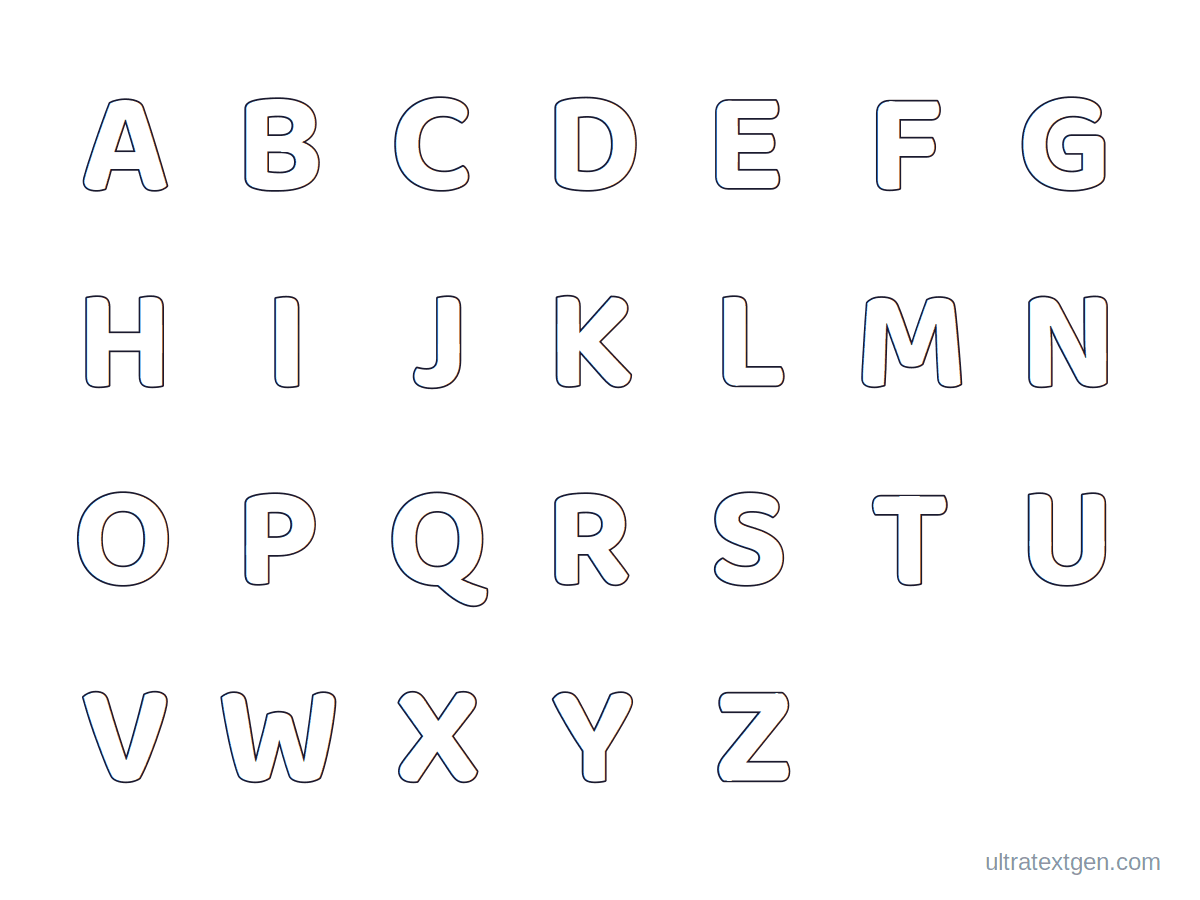
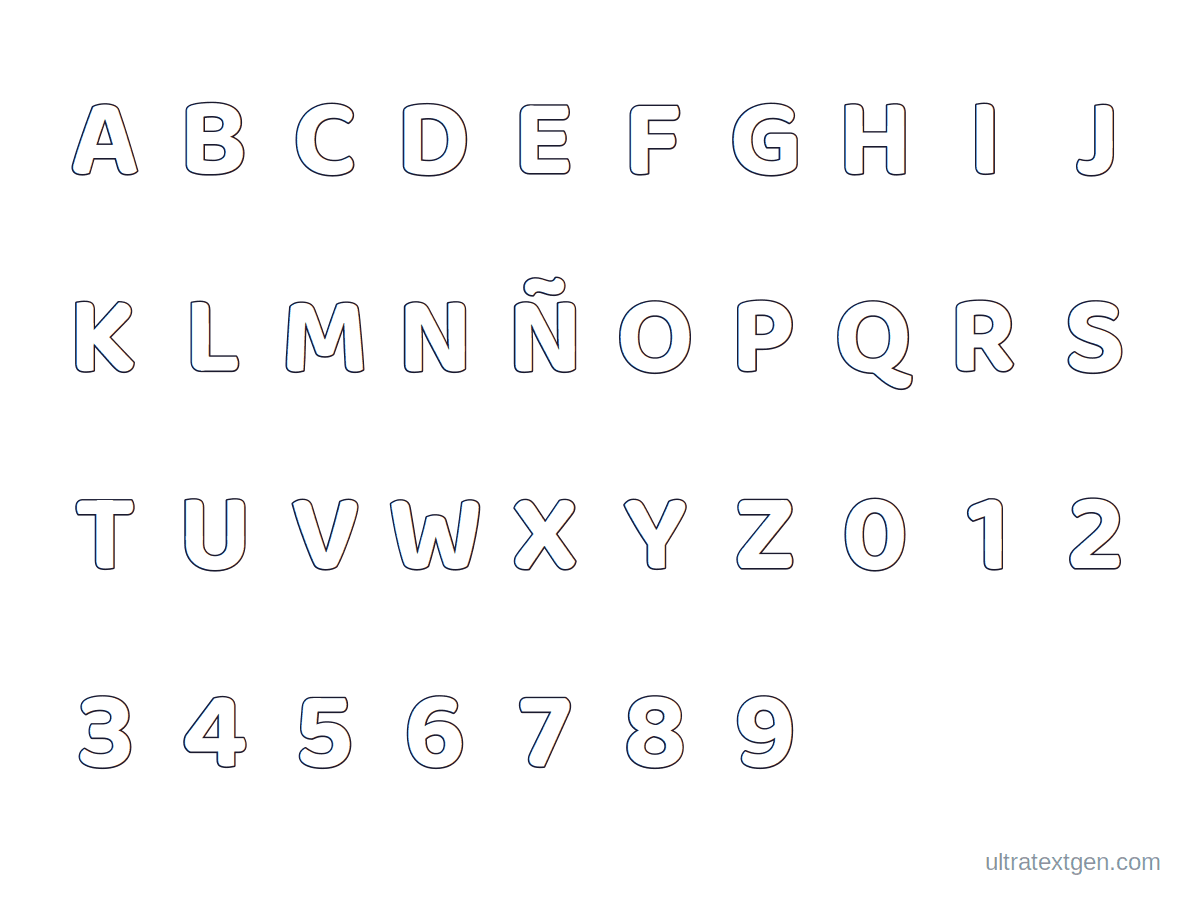
fix(printables): Spanish coloring alphabet offers its 37 spokes, N-tilde included
Same defect as the English hub, one degree worse. es/imprimibles/abecedario-para-colorear
ships 37 spokes (26 letras, letra-enye, numero-0..9) and links every one of them
from its own list, while its title, h1, list heading and figure alt already said
"A-Z y 0-9". Its picker offered 26 tiles: the N-tilde and all ten numbers were
advertised with no way to open them.

It needs BOTH keys, because the engine gates them separately: `chars` carries the
27-letter Spanish alphabet so the letter row includes the N-tilde, and `charset:
"alnum"` adds the digit row, which is built from a fixed DIGITS constant rather
than from `chars`. Either alone leaves a third of the page unreachable.

Nothing was invented: the `chars` array is copied verbatim from
es/imprimibles/abecedario-espanol, which already ships that exact 27-letter
sequence with the N-tilde between N and O. Copy vocabulary was attested against
this locale's own pages before use (numero 128, caracter 152, conjunto completo
6). The FAQ answer saying "los 26 contornos" was corrected in both halves at
once, visible and JSON-LD, since check:faq-schema compares them.

37 is prime, so a clean rectangle is impossible and the old column rule made that
visibly worse: `7 if n <= 28 else 9` puts ONE glyph alone on a fifth row, a worse
version of the ragged gap this grid was just fixed for. grid_cols() keeps the
historical rule as the default and only departs from it when the last row would
[…]

diff --git a/es/imprimibles/abecedario-para-colorear/index.html b/es/imprimibles/abecedario-para-colorear/index.html
@@ -111,7 +111,7 @@ window.__h82AlnkH6D91__("WyJwdWItODI0MjMyNDE2NDQxMzk0NSIsW251bGwsbnVsbCxudWxsLCJ
       "name": "¿Cómo imprimo todo el alfabeto ABC de una vez?",
       "acceptedAnswer": {
         "@type": "Answer",
-        "text": "Desplázate hasta la sección Alfabeto para imprimir y pulsa Imprimir el alfabeto para enviar los 26 contornos de letras a tu impresora en una sola hoja — práctico para un juego de clase o una actividad de día lluvioso."
+        "text": "Desplázate hasta la sección Alfabeto para imprimir y pulsa Imprimir el alfabeto para enviar los 37 contornos de letras y números a tu impresora en una sola hoja — práctico para un juego de clase o una actividad de día lluvioso."
       }
     },
     {
@@ -395,11 +395,11 @@ window.__h82AlnkH6D91__("WyJwdWItODI0MjMyNDE2NDQxMzk0NSIsW251bGwsbnVsbCxudWxsLCJ
 
     <!-- Picker + selected-letter detail -->
     <section class="bubble-az" aria-labelledby="ptPickHeading">
-      <h2 class="bubble-az-heading" id="ptPickHeading">Elige una letra para colorear</h2>
-      <p class="bubble-az-intro">Toca cualquier letra A–Z para ver su gran contorno para colorear, imprimirlo o descargar un PNG.</p>
-      <div class="bubble-strip" id="pt-strip" role="tablist" aria-label="Elegir una letra para colorear"></div>
+      <h2 class="bubble-az-heading" id="ptPickHeading">Elige una letra o un número para colorear</h2>
+      <p class="bubble-az-intro">Toca cualquier letra A–Z, la Ñ o cualquier número 0–9 para ver su gran contorno para colorear, imprimirlo o descargar un PNG.</p>
+      <div class="bubble-strip" id="pt-strip" role="tablist" aria-label="Elegir una letra o un número para colorear"></div>
       <div class="bubble-letter-panel" id="pt-panel" aria-live="polite"></div>
-      <p class="bubble-az-intro">¿Quieres el alfabeto completo? Imprime los 26 contornos para colorear de una vez — en una sola hoja, o como libro con una página por letra.</p>
+      <p class="bubble-az-intro">¿Quieres el conjunto completo? Imprime los 37 contornos para colorear de una vez — las 27 letras y los 10 números — en una sola hoja, o como libro con una página por carácter.</p>
       <div class="pt-size-field">
         <div id="pt-size-control"></div>
       </div>
@@ -628,7 +628,7 @@ window.__h82AlnkH6D91__("WyJwdWItODI0MjMyNDE2NDQxMzk0NSIsW251bGwsbnVsbCxudWxsLCJ
           <svg xmlns="http://www.w3.org/2000/svg" fill="none" viewBox="0 0 24 24" stroke="currentColor"><path stroke-linecap="round" stroke-linejoin="round" stroke-width="2" d="M19 9l-7 7-7-7"></path></svg>
         </button>
         <div class="faq-answer">
-          Desplázate hasta la sección <strong>Alfabeto para imprimir</strong> y pulsa <strong>Imprimir el alfabeto</strong> para enviar los 26 contornos de letras a tu impresora en una sola hoja — práctico para un juego de clase o una actividad de día lluvioso.
+          Desplázate hasta la sección <strong>Alfabeto para imprimir</strong> y pulsa <strong>Imprimir el alfabeto</strong> para enviar los 37 contornos de letras y números a tu impresora en una sola hoja — práctico para un juego de clase o una actividad de día lluvioso.
         </div>
       </div>
 
@@ -673,6 +673,14 @@ window.__h82AlnkH6D91__("WyJwdWItODI0MjMyNDE2NDQxMzk0NSIsW251bGwsbnVsbCxudWxsLCJ
       pngPrefix: "colorear",
       font: "'Baloo 2', 'Plus Jakarta Sans', sans-serif",
       strokeWidth: 4,
+      // 37 spokes ship under this page: 26 letras, letra-enye and numero-0..9,
+      // all linked from its own list. `chars` carries the 27-letter Spanish
+      // alphabet (copied from es/imprimibles/abecedario-espanol, which already
+      // ships it) so the picker offers the N-tilde, and `charset` adds the digit
+      // row, which the engine gates separately. Without both, ten number pages
+      // and the N-tilde had no tile.
+      chars: ["A","B","C","D","E","F","G","H","I","J","K","L","M","N","Ñ","O","P","Q","R","S","T","U","V","W","X","Y","Z","0","1","2","3","4","5","6","7","8","9"],
+      charset: "alnum",
     };
   </script>
   <script src="/styles.js" defer></script>

diff --git a/scripts/generate-printables-previews.py b/scripts/generate-printables-previews.py
@@ -689,13 +689,47 @@ def r_spoke_outline(page, fd):
     return sheet(svg_text(x, baseline, ch, fam, size, weight_for(fam), "#ffffff", INK, sw))
 
 
+def grid_cols(n):
+    """Columns for an n-character alphabet grid.
+
+    The historical rule is `7 if n <= 28 else 9`, and it is kept as the default
+    because it is what every committed grid was rendered with: 26 letters land
+    5/7 on the last row, 27 land 6/7, and 36 fill 9/9 exactly.
+
+    It breaks down on counts that leave the last row nearly empty. The Spanish
+    coloring alphabet is 37 (A-N, N-tilde, O-Z, 0-9) and the default puts ONE
+    glyph alone on a fifth row, which is a worse version of the ragged gap this
+    grid was fixed for in the first place.
+
+    So: keep the default unless it strands a last row under half full, and in
+    that case take the candidate with the fullest last row (ties going to the
+    fewest rows). For 37 that is 10 columns: 4 rows, last row 7/10.
+
+    Deliberately narrow. Measured against the 27 alphabet-grid landing pages on
+    the site, this returns the historical answer for every one of them, so no
+    existing preview changes. A general "minimise raggedness" rule would move
+    the six 26-character pages from 7 columns to 9 and rewrite art nobody asked
+    to change.
+    """
+    default = 7 if n <= 28 else 9
+    if n % default == 0 or n % default >= default / 2:
+        return default
+    best = default
+    for c in (8, 9, 10):
+        fill = n % c or c
+        best_fill = n % best or best
+        if (fill, -math.ceil(n / c)) > (best_fill, -math.ceil(n / best)):
+            best = c
+    return best
+
+
 def r_alphabet_grid(page, fd):
     fam = page["family"]
     met = metrics(fd, fam)
     chars = page["chars"] or list("ABCDEFGHIJKLMNOPQRSTUVWXYZ")
     if not page["chars"] and page["charset"] == "alnum":
         chars += list("0123456789")
-    cols = 7 if len(chars) <= 28 else 9
+    cols = grid_cols(len(chars))
     rows = math.ceil(len(chars) / cols)
     margin_x, top, bottom = 50, 40, 70
     cell_w = (W - 2 * margin_x) / cols
